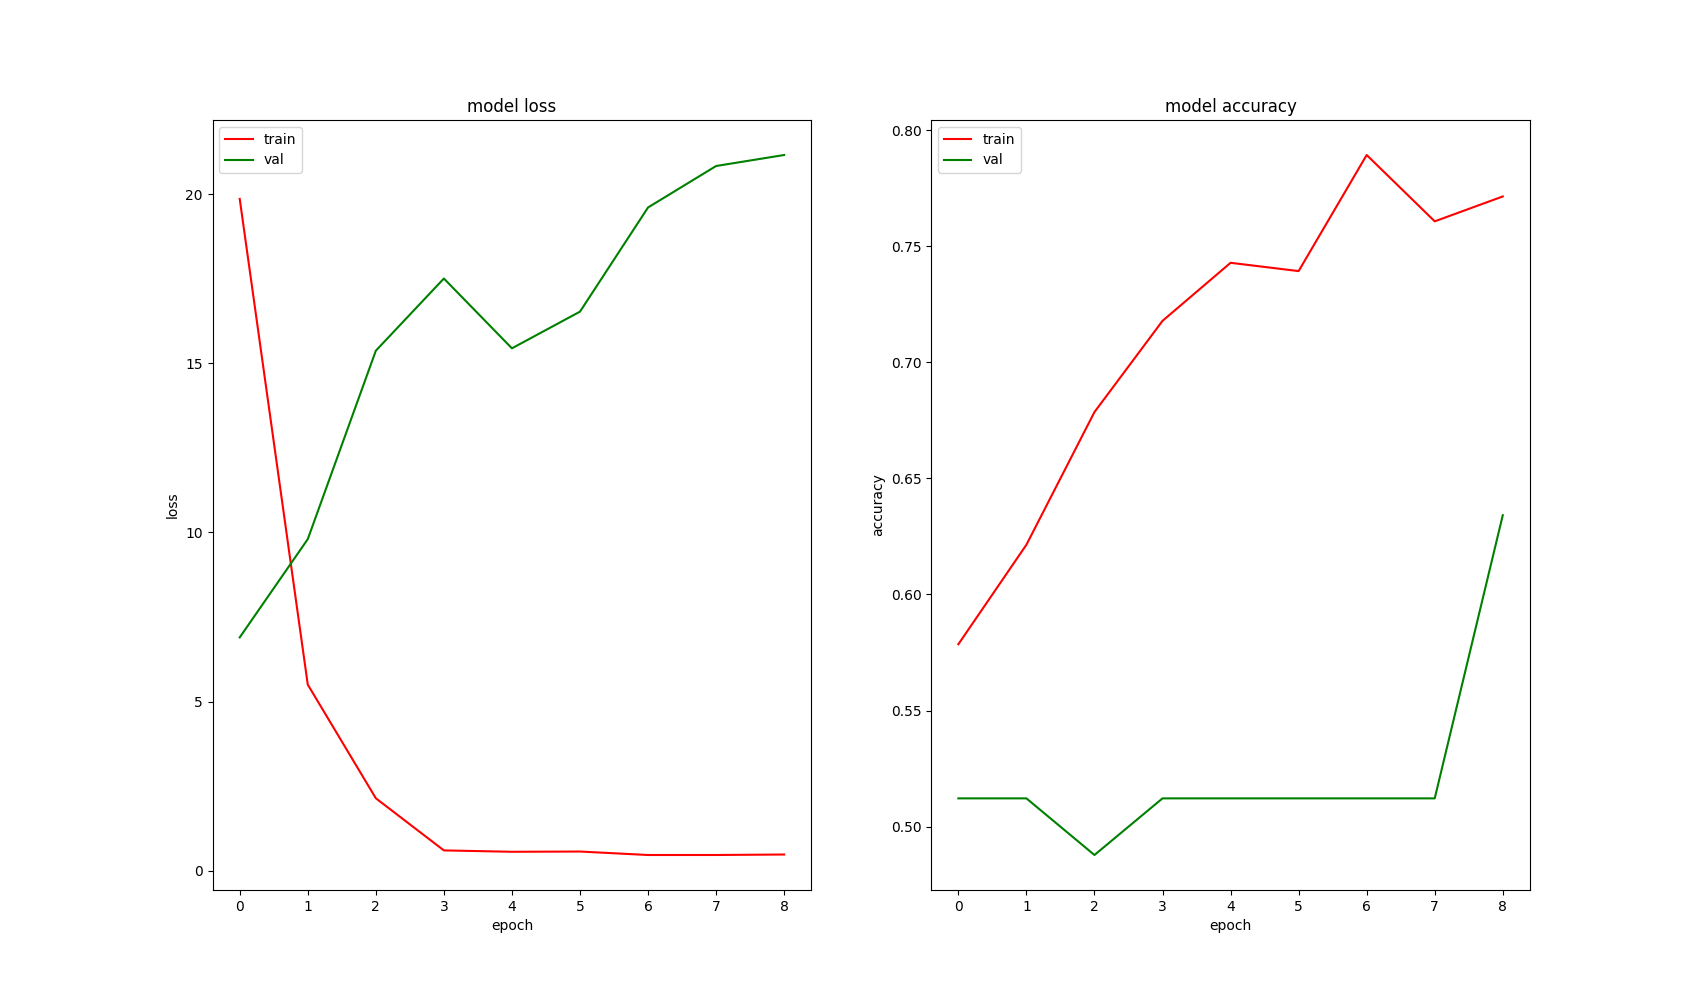
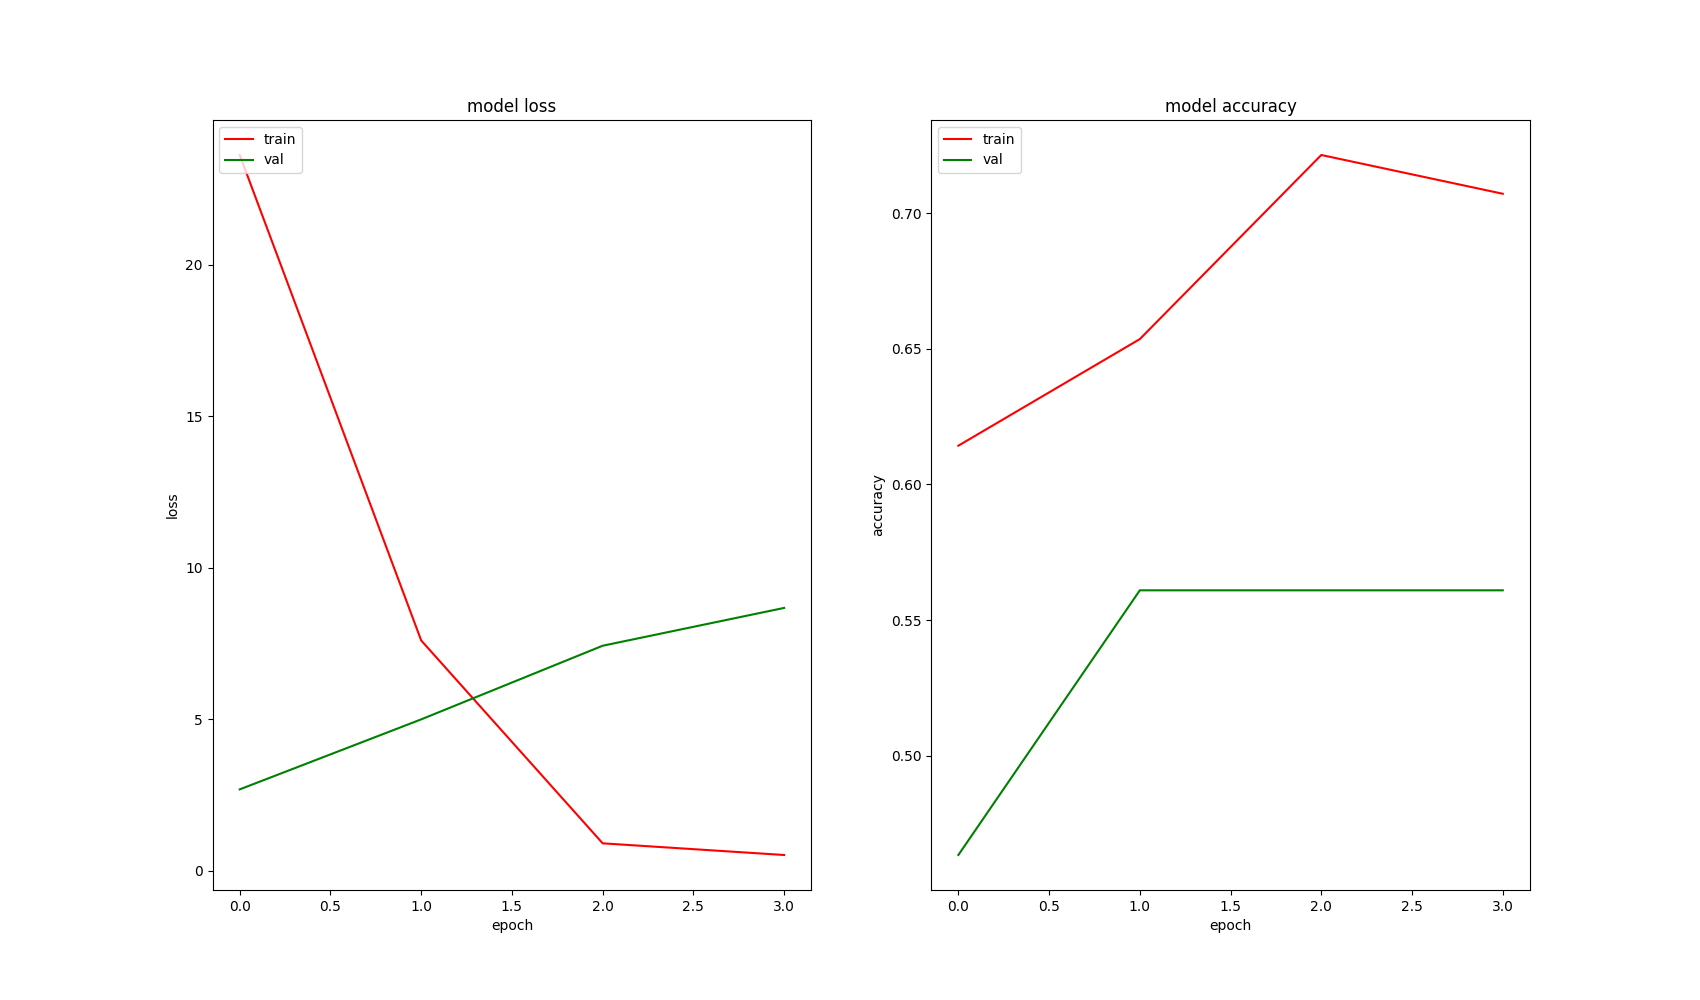
some works

diff --git a/ec2_runner.py b/ec2_runner.py
@@ -1,0 +1,79 @@
+import boto3
+import paramiko
+import os
+
+# AWS credentials
+ACCESS_KEY = 'your_access_key'
+SECRET_KEY = 'your_secret_key'
+
+# EC2 instance details
+AMI_ID = 'your_ami_id'
+INSTANCE_TYPE = 't2.micro'
+KEY_NAME = 'your_key_name'
+SECURITY_GROUP = 'your_security_group'
+REGION = 'your_region'
+
+# Git repository details
+REPO_URL = 'your_repository_url'
+REPO_FOLDER = 'your_repository_folder'
+BRANCH_NAME = 'your_branch_name'
+
+# SSH key details
+PEM_FILE = 'your_pem_file_path'
+SSH_USERNAME = 'your_ssh_username'
+
+# Connect to AWS
+session = boto3.Session(
+    aws_access_key_id=ACCESS_KEY,
+    aws_secret_access_key=SECRET_KEY,
+    region_name=REGION
+)
+ec2 = session.client('ec2')
+
+# Spin up an EC2 instance
+response = ec2.run_instances(
+    ImageId=AMI_ID,
+    InstanceType=INSTANCE_TYPE,
+    KeyName=KEY_NAME,
+    SecurityGroups=[SECURITY_GROUP],
+    MinCount=1,
+    MaxCount=1
+)
+instance_id = response['Instances'][0]['InstanceId']
+
+# Wait for the instance to be running
+ec2.wait_until_running(InstanceIds=[instance_id])
+print('EC2 instance is running')
+
+# Get the public IP address of the instance
+response = ec2.describe_instances(InstanceIds=[instance_id])
+public_ip = response['Reservations'][0]['Instances'][0]['PublicIpAddress']
+
+# SSH into the instance
+ssh = paramiko.SSHClient()
+ssh.set_missing_host_key_policy(paramiko.AutoAddPolicy())
+ssh.connect(public_ip, username=SSH_USERNAME, key_filename=PEM_FILE)
+print('SSH connection established')
+
+# Clone the Git repository
+ssh.exec_command(f'git clone {REPO_URL} {REPO_FOLDER}')
+print('Repository cloned')
+
+# Change directory to the repository folder
+ssh.exec_command(f'cd {REPO_FOLDER}')
+print('Changed directory')
+
+# Checkout the desired branch
+ssh.exec_command(f'git checkout {BRANCH_NAME}')
+print('Branch checked out')
+
+# Run your code
+ssh.exec_command('python your_code.py')
+print('Code executed')
+
+# Close the SSH connection
+ssh.close()
+
+# Terminate the EC2 instance
+ec2.terminate_instances(InstanceIds=[instance_id])
+print('EC2 instance terminated')

diff --git a/neural_network_model/model.py b/neural_network_model/model.py
@@ -68,7 +68,7 @@ class ModelSetting(BaseModel):
     METRICS: List = ["accuracy"]
 
     # fit generator
-    EPOCHS: int = 10
+    EPOCHS: int = 5
     FIT_GEN_VERBOSE: int = 1
     VALIDATION_STEPS: int = 2
     CLASS_WEIGHT: dict = None
@@ -119,13 +119,11 @@ class DataGenSetting(BaseModel):
 
 
 class GradCamSetting(BaseModel):
-    IMG_PATH: str = (
-        Path(__file__).parent / ".." / "dataset" / "pdc_bit" / "1683696188809.jpg"
-    )
+    IMG_PATH: str = Path(__file__).parent / ".." / "dataset" / "pdc_bit" / "Image_1.png"
 
     LAST_CONV_LAYER_NAME: str = "conv2d_2"
     IMAGE_NEW_NAME: str = (
-        Path(__file__).parent / ".." / "figures" / "grad_cam_pdc_1683696188809.png"
+        Path(__file__).parent / ".." / "figures" / "grad_cam_pdc_Image_1.png"
     )
 
     ALPHA: float = 0.7

diff --git a/neural_network_model/bit_vision.py b/neural_network_model/bit_vision.py
@@ -19,7 +19,7 @@ random.seed(1)
 import os
 import warnings
 from pathlib import Path
-from typing import Any, Dict, List
+from typing import Dict, List
 
 # from tensorflow.keras.callbacks import ModelCheckpoint
 from keras.callbacks import ModelCheckpoint
@@ -38,7 +38,6 @@ import matplotlib.pyplot as plt
 import tensorflow as tf
 
 # Display
-from IPython.display import Image, display
 from tensorflow import keras
 from tensorflow.keras.preprocessing import image
 from tensorflow.keras.preprocessing.image import (
@@ -517,7 +516,5 @@ if __name__ == "__main__":
     # obj.compile_model()
     # obj.train_model()
     # obj.plot_history()
-
     # obj.predict()
-
     obj.grad_cam_viz()

diff --git a/neural_network_model/process_data.py b/neural_network_model/process_data.py
@@ -20,7 +20,7 @@ import random
 # import sys
 import warnings
 from pathlib import Path
-from typing import Any, Dict, List
+from typing import Dict, List
 
 # import shutil
 from tqdm import tqdm
